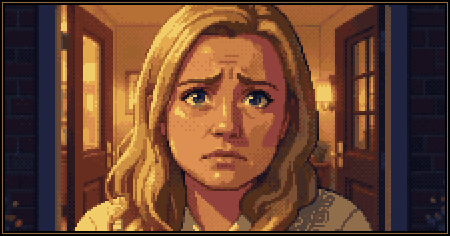
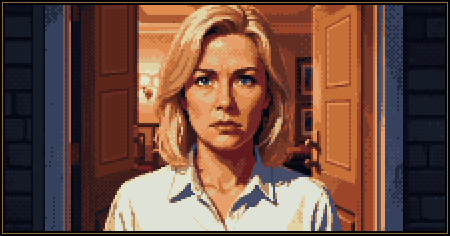
Rose door close-up: new portrait, solid wood doors, 2 s hold after her line (#196)
- New source picture for Rose's "Wait!" close-up
(`tools/art/src/rose_closeup.png`), regenerated
`assets/art/ui/rose_closeup.png`.
- `closeup.py` paints the picture's glazed door leaves as solid panelled
wood (`ROSE_DOOR_GLASS`) so the close-up matches her front door in the
street scene.
- `RoseHouse.WalkAway`: 2 s silent hold before "Don't get into trouble
again." (unchanged), plus a new 2 s hold with the close-up up after the
line, then back to the scene.
- AutoPlay Act 2 checks the close-up still shows after the line;
Walkthrough updated.

Local suites: `dotnet build`, `unit` (xunit, 268 passed), `art` (121
passed). Godot suites (playthrough/autoplay) could not run locally
because other sessions held the shared Godot user data; left to CI.

diff --git a/tools/art/closeup.py b/tools/art/closeup.py
@@ -5,7 +5,8 @@ chunky pixels, a tight palette and ordered dithering, inside a dark bevelled fra
 
 - stage_closeup: Eleanor on the Club stage, the stag and the hooded mask behind her, long locks of hair falling over
   her breasts. The clothed variant is its own picture: the same one in a dark velvet dress over her shoulders and chest.
-- rose_closeup: Rose calling Micah back from her door.
+- rose_closeup: Rose calling Micah back from her door. The source's glazed door leaves are painted over as solid
+  panelled wood (ROSE_DOOR_GLASS) to match her front door in the street scene.
 - beaten_closeup: Micah flat on his back after a beating (Hubbard Street in Act 2, the cathedral steps in Act 3), looking up from under his hat.
 - convent_closeup: outside the convent at the end of Act 1, Micah on the left and Eleanor on the right, two portraits
   in one panel split by a bar in the frame's colours. Micah's picture is zoomed so his face is the same size as hers.
@@ -64,9 +65,47 @@ def rose_crop(src):
     return img.crop((0, top, w, top + ch))
 
 
+# The glazed parts of the two door leaves in the 1344x768 source, as (top-left, top-right, bottom-right, bottom-left)
+# quads following each leaf's perspective. Rose's front door in the street scene is solid wood, so these are painted
+# over as raised wooden panels in the leaf's own colour.
+ROSE_DOOR_GLASS = (
+    (((277, 0), (392, 0), (392, 536), (277, 566)), (92, 38, 26)),
+    (((966, 88), (1069, 26), (1069, 584), (966, 540)), (196, 112, 52)),
+)
+
+
+def _quad_point(quad, u, v):
+    """Bilinear point inside quad (tl, tr, br, bl) at u across, v down."""
+    (x0, y0), (x1, y1), (x2, y2), (x3, y3) = quad
+    tx, ty = x0 + (x1 - x0) * u, y0 + (y1 - y0) * u
+    bx, by = x3 + (x2 - x3) * u, y3 + (y2 - y3) * u
+    return tx + (bx - tx) * v, ty + (by - ty) * v
+
+
+def _sub_quad(quad, u0, v0, u1, v1):
+    return [_quad_point(quad, u, v) for u, v in ((u0, v0), (u1, v0), (u1, v1), (u0, v1))]
+
+
+def solid_door(img, quad, base):
+    """Paints a glazed door area as solid wood: the leaf colour with two raised panels, lit from the hall."""
+    def shade(k):
+        return tuple(max(0, min(255, round(c * k))) for c in base)
+
+    d = ImageDraw.Draw(img)
+    d.polygon(quad, fill=base)
+    for v0, v1 in ((0.06, 0.46), (0.54, 0.94)):
+        d.polygon(_sub_quad(quad, 0.12, v0, 0.88, v1), fill=shade(0.62))     # the recess's shadowed groove
+        d.polygon(_sub_quad(quad, 0.16, v0 + 0.012, 0.84, v1 - 0.012), fill=shade(1.18))  # lit bevel
+        d.polygon(_sub_quad(quad, 0.22, v0 + 0.03, 0.80, v1 - 0.03), fill=shade(1.0))      # the panel face
+    return img
+
+
 def rose_closeup(src):
     """Rose calling Micah back from the door: "Wait!"."""
-    img = rose_crop(src)
+    img = src.convert("RGB")
+    for quad, base in ROSE_DOOR_GLASS:
+        solid_door(img, quad, base)
+    img = rose_crop(img)
     return framed(img, palette_of(img.resize((AW, AH), Image.BOX), COLOURS))
 
 

diff --git a/scripts/Debug/AutoPlay/AutoPlay.Act2.cs b/scripts/Debug/AutoPlay/AutoPlay.Act2.cs
@@ -344,6 +344,8 @@ public partial class AutoPlay
         Check(game.Hud.SpeechRect.Position.Y > game.Hud.InsetRect.Position.Y + game.Hud.InsetRect.Size.Y * 0.7f, "speech sits below Rose's face while the close-up is up");
         await game.Wait(1);
         await Shot("rose_house_wait");
+        await Until(() => !game.Hud.SpeechVisible || !game.Hud.InsetVisible);
+        Check(game.Hud.InsetVisible, "Rose's close-up holds after her last line");
         await Until(() => !game.Hud.InsetVisible);
         Check(game.Room?.Name == "RoseHouse", "Rose's close-up is gone before the door closes");
         await bell;

diff --git a/scripts/Rooms/RoseHouse.cs b/scripts/Rooms/RoseHouse.cs
@@ -118,6 +118,7 @@ public partial class RoseHouse : Room
         Game.Hud.ShowCloseUp(CloseUps.Rose);
         await Wait(2.0);
         await Say("rose", "Don't get into trouble again.");
+        await Wait(2.0);
         Game.Hud.HideCloseUp();
         await Wait(0.8);
         State.SetFlag("rose_door", false);

diff --git a/Walkthrough.md b/Walkthrough.md
@@ -469,7 +469,8 @@ Micah's things are stashed and come back when the interlude ends, and none of he
   back with a "Wait!": Micah will turn, then the wife will say "Don't get into trouble again."
   After "Wait!" (not during it) a framed close-up panel of Rose at her door pops up over the scene, in the same style as
   Eleanor's stage close-up; after a couple of seconds of silence, "Don't get into trouble again." appears along the
-  panel's bottom edge, then the panel is removed and the scene continues.
+  panel's bottom edge, the panel holds for a couple more seconds after the line, then it is removed and the scene
+  continues.
 - Rose makes clear that forgiveness is not something Micah can demand; the callback is concern, not absolution.
   Keep her third-appeal reply: "Forgiving is easy, Micah. Forgetting is the part you keep asking for."
 - If Micah leaves without insisting at least three times, Rose answers: "You're running away again. It was always
